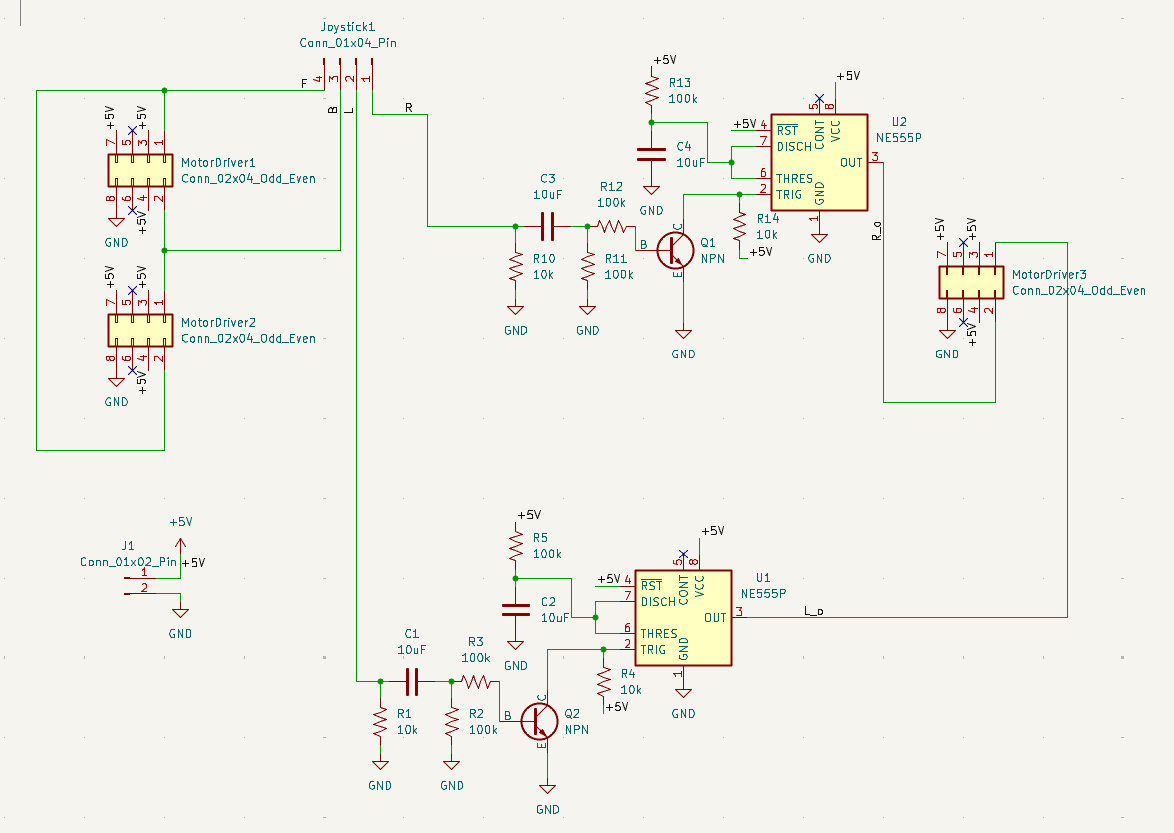
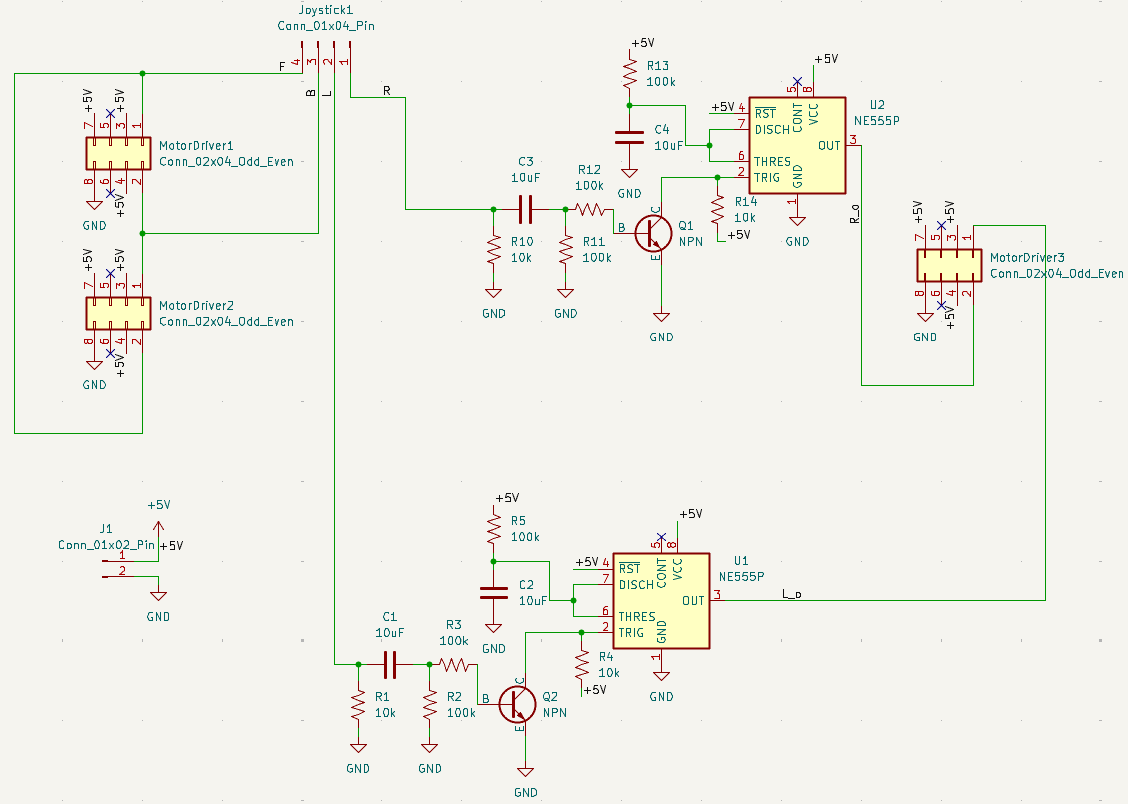
Added to the README and some image changes

diff --git a/README.md b/README.md
@@ -25,7 +25,17 @@ For this car, a modification was made for the movement. Using a joystick instead
 To implement the timed movement for turning left and right, a 555 circuit was created and added to each of the direction inputs.  
 
 
-![555 Timer Circuit Diagram](Images/555CarCircuit.png)
+![555 Timer Circuit Diagram](Images/555CarCircuit.png)  
 *555 Timer Circuit Diagram*  
 &emsp;  
 The combination of resistors and capacitors makes the 5 volt pulse from the timer last for only 1 second before cutting off regardless of whether the joystick is still held down, resulting in the short burst of turning that the car experiences.  
+
+![Full Car Circuit Diagram](Images/PCBSchematic.png)  
+*The Full Circuit Diagram of the car*  
+&emsp;  
+
+![Full Car PCB Model](Images/PCBSchematic.png)  
+*The Full PCB Model of the car*  
+&emsp;  
+
+The full construction of the circuit
